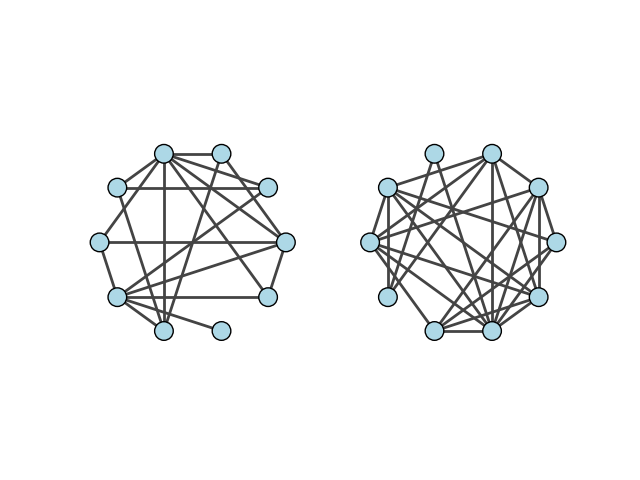
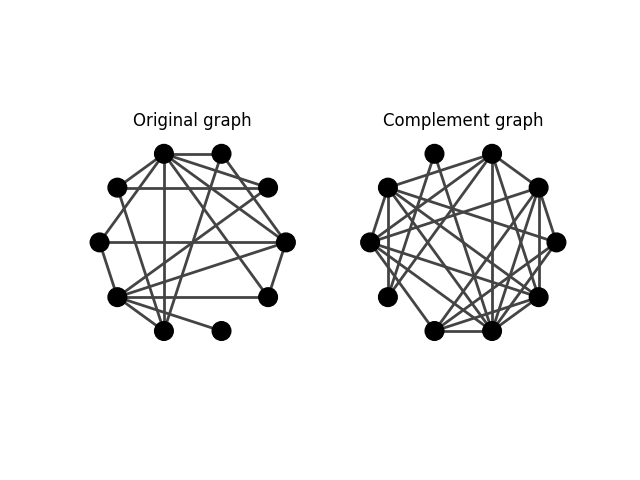
Add titles to complement tutorial figures

diff --git a/doc/source/tutorials/complement/assets/complement.py b/doc/source/tutorials/complement/assets/complement.py
@@ -15,13 +15,14 @@ ig.plot(
     g1,
     target=axs[0],
     layout="circle",
-    vertex_color="lightblue",
+    vertex_color="black",
 )
+axs[0].set_title('Original graph')
 ig.plot(
     g2,
     target=axs[1],
     layout="circle",
-    vertex_color="lightblue",
+    vertex_color="black",
 )
+axs[1].set_title('Complement graph')
 plt.show()
-

diff --git a/doc/source/tutorials/complement/complement.rst b/doc/source/tutorials/complement/complement.rst
@@ -36,12 +36,14 @@ We can then generate the complement, and plot out the graph.
         layout="circle",
         vertex_color="lightblue",
     )
+    axs[0].set_title('Original graph')
     ig.plot(
         g2,
         target=axs[1],
         layout="circle",
         vertex_color="lightblue",
     )
+    axs[1].set_title('Complement graph')
     plt.show()
 
 The two graphs compared side by side look like this:
